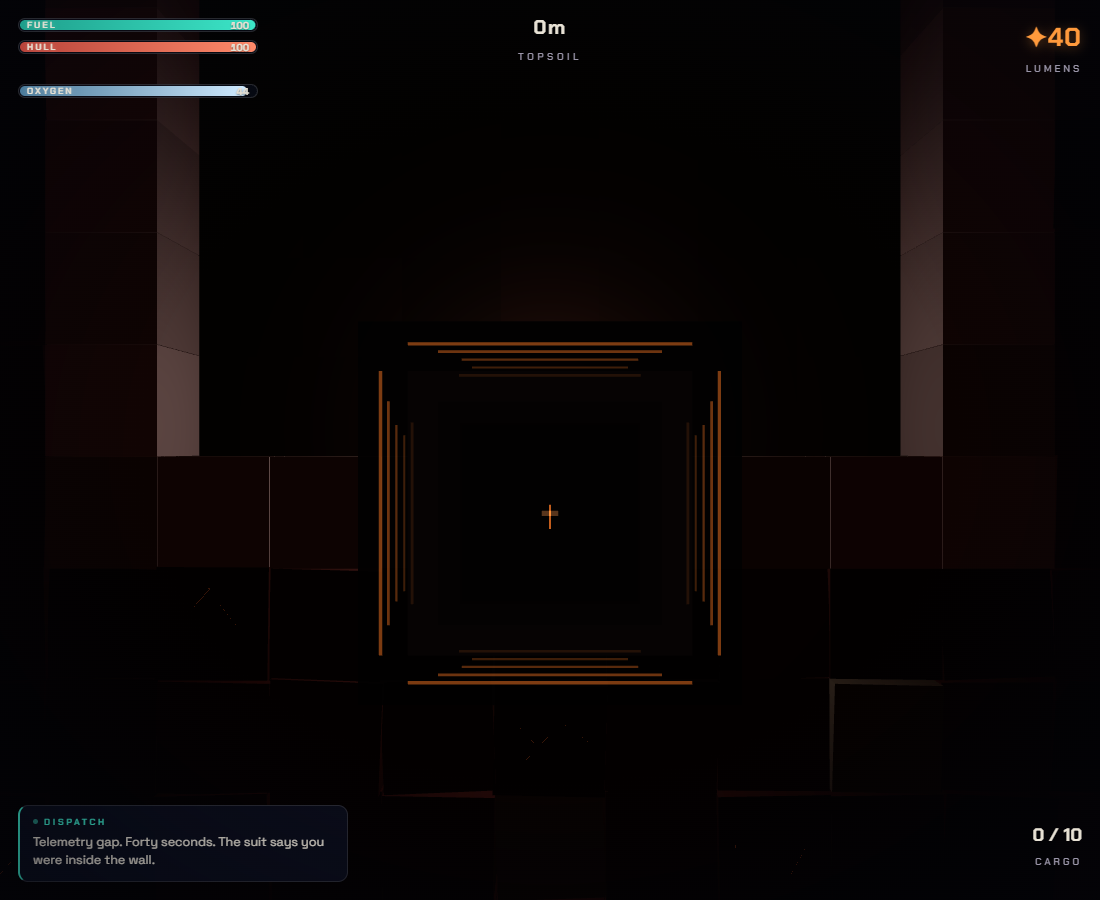
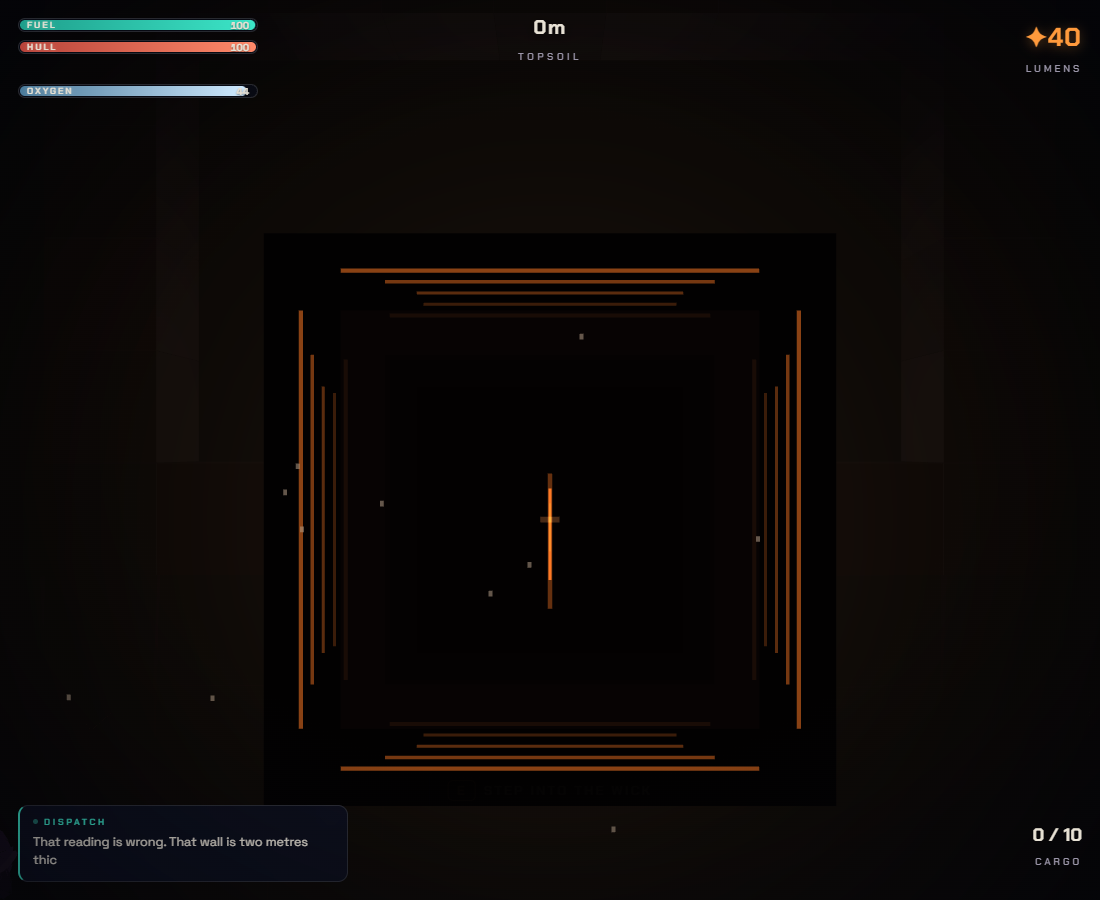
The fold owns the frame, and the door stands inside
Playtest verdict on the first fold: right idea, too small. Now the
world irises down to a warm pool around the stone, a flare ring breaks
off the mark, the coffers fill the screen shedding stone dust as they
recede, and the word STREAMS down its own throat in three flowing
echoes — the transit flash's register, spent on a doorway.

And the inside finally answers the outside: the vault's entry is the
same throat seen from the other side, arriving OPEN and closing to a
dim standing doorframe behind you over two pulses, then brightening as
the body comes back near — the way out, promised the whole run. The
completion card's engraved lines are block-level now, so a sentence
that wraps no longer shreds against its own clip.

diff --git a/src/fx/fold.ts b/src/fx/fold.ts
@@ -1,135 +1,211 @@
 import * as THREE from 'three';
 import { GlyphDef } from '../world/glyphs';
+import { softDisc } from '../game/vaultkit';
 
 // THE FOLD (SPEC-FOLD.md) — the threshold is topology, never teleportation.
 //
-// The stone does not open a door; the word unfolds. Five coffered frames
-// recede into the rock in reading order, the glyph's own strokes stretch
-// inward to become the corridor's seams, and one warm ember waits at the
-// bottom of the throat — the entry sconce, promised before it is met.
+// The stone does not open a door; the word unfolds. The world irises down
+// to a warm pool around the stone, a flare ring breaks off the mark, five
+// coffered frames recede in reading order shedding dust as they go, the
+// glyph's own strokes STREAM inward — the word pulling you through itself
+// — and one ember waits at the bottom of the throat.
 //
-// Everything draws with depth-testing OFF at a high render order: the
-// throat is a picture of depth painted over the dig face, so it can never
-// z-fight the terrain it pretends to tunnel through. Perceived recession
-// is scale + darkening, not actual z — cheaper, and it can never clip.
+// Two builds from one kit:
+//   surface (default) — depth-test OFF at high render order: a picture of
+//     depth painted over the dig face, sized to own the frame with the
+//     dolly. Ephemeral: built at E, disposed on the cut.
+//   interior — depth-test ON, tucked behind the play plane at the vault's
+//     entry: the same throat seen from the other side. It arrives OPEN,
+//     closes to a dim standing doorframe behind you, and brightens again
+//     as the body comes near — the way out, promised the whole run.
 
 export interface FoldThroat {
   group: THREE.Group;
-  /** k in 0..1 — 0 sealed stone, 1 fully unfolded throat */
-  update(k: number): void;
+  /** k 0..1 (sealed → fully unfolded); time drives the streaming strokes */
+  update(k: number, time?: number): void;
   dispose(): void;
 }
 
 const FRAMES = 5;
 
-/** stone settles, light snaps: the one easing the fold's stagger uses */
 const settle = (t: number): number => {
   const p = Math.max(0, Math.min(1, t));
   return 1 - Math.pow(1 - p, 3);
 };
 
-export function buildFoldThroat(g: GlyphDef, hue: number): FoldThroat {
+export function buildFoldThroat(g: GlyphDef, hue: number, interior = false): FoldThroat {
   const group = new THREE.Group();
   const mats: THREE.Material[] = [];
   const geos: THREE.BufferGeometry[] = [];
   const mk = <T extends THREE.Material>(m: T): T => { mats.push(m); return m; };
   const gm = <T extends THREE.BufferGeometry>(x: T): T => { geos.push(x); return x; };
+  const depthTest = interior;
+  const ro = interior ? 0 : 40;
+  const zi = (n: number): number => interior ? -n * 0.012 : 0.001 * n;
+  const SIZE = interior ? 2.6 : 4.4;
 
-  // the black behind the world: the fold's first act is to unmake the wall
+  // the iris: the world falls away to a warm pool around the stone —
+  // surface only; inside a vault the dark is already everywhere
+  let irisMat: THREE.MeshBasicMaterial | null = null;
+  let haloMat: THREE.MeshBasicMaterial | null = null;
+  if (!interior) {
+    irisMat = mk(new THREE.MeshBasicMaterial({
+      color: 0x020104, transparent: true, opacity: 0, depthTest: false, depthWrite: false,
+    }));
+    const iris = new THREE.Mesh(gm(new THREE.PlaneGeometry(90, 60)), irisMat);
+    iris.renderOrder = ro - 2;
+    group.add(iris);
+    haloMat = mk(new THREE.MeshBasicMaterial({
+      map: softDisc(), color: 0x3a2c20, transparent: true, opacity: 0,
+      blending: THREE.AdditiveBlending, depthTest: false, depthWrite: false, toneMapped: false,
+    }));
+    const halo = new THREE.Mesh(gm(new THREE.PlaneGeometry(14, 14)), haloMat);
+    halo.renderOrder = ro - 1;
+    group.add(halo);
+  }
+
+  // the black behind the world
   const backMat = mk(new THREE.MeshBasicMaterial({
-    color: 0x050308, transparent: true, opacity: 0, depthTest: false, depthWrite: false,
+    color: 0x050308, transparent: true, opacity: 0, depthTest, depthWrite: false,
   }));
-  const back = new THREE.Mesh(gm(new THREE.PlaneGeometry(3.4, 3.4)), backMat);
-  back.renderOrder = 40;
+  const back = new THREE.Mesh(gm(new THREE.PlaneGeometry(SIZE * 1.15, SIZE * 1.15)), backMat);
+  back.renderOrder = ro;
+  back.position.z = zi(0);
   group.add(back);
 
-  // the coffered frames, largest first — each a dark square with a rim of
-  // the world's own note along its edges
+  // the flare ring: the moment the point of light takes, a breath breaks
+  // off the mark and runs outward
+  const ringMat = mk(new THREE.MeshBasicMaterial({
+    color: hue, transparent: true, opacity: 0,
+    blending: THREE.AdditiveBlending, depthTest, depthWrite: false, toneMapped: false,
+    side: THREE.DoubleSide,
+  }));
+  const ring = new THREE.Mesh(gm(new THREE.RingGeometry(0.94, 1, 40)), ringMat);
+  ring.renderOrder = ro + 8;
+  ring.position.z = zi(-1);
+  group.add(ring);
+
+  // the coffered frames, largest first — dark squares rimmed in the note
   const frames: {
     fill: THREE.Mesh; fillMat: THREE.MeshBasicMaterial;
     edges: THREE.Mesh[]; edgeMat: THREE.MeshBasicMaterial;
-    size: number;
   }[] = [];
   for (let i = 0; i < FRAMES; i++) {
-    const size = 3.0 - i * 0.14;
+    const size = SIZE - i * SIZE * 0.045;
     const shade = 0x16100f - i * 0x040302;
     const fillMat = mk(new THREE.MeshBasicMaterial({
       color: Math.max(0x020103, shade), transparent: true, opacity: 0,
-      depthTest: false, depthWrite: false,
+      depthTest, depthWrite: false,
     }));
     const fill = new THREE.Mesh(gm(new THREE.PlaneGeometry(size, size)), fillMat);
-    fill.renderOrder = 41 + i;
+    fill.renderOrder = ro + 1 + i;
+    fill.position.z = zi(i + 1);
     group.add(fill);
     const edgeMat = mk(new THREE.MeshBasicMaterial({
       color: hue, transparent: true, opacity: 0,
-      blending: THREE.AdditiveBlending, depthTest: false, depthWrite: false, toneMapped: false,
+      blending: THREE.AdditiveBlending, depthTest, depthWrite: false, toneMapped: false,
     }));
     const edges: THREE.Mesh[] = [];
     for (const [ex, ey, w, h] of [
-      [0, size / 2, size, 0.035], [0, -size / 2, size, 0.035],
-      [-size / 2, 0, 0.035, size], [size / 2, 0, 0.035, size],
+      [0, size / 2, size, 0.045], [0, -size / 2, size, 0.045],
+      [-size / 2, 0, 0.045, size], [size / 2, 0, 0.045, size],
     ] as const) {
       const e = new THREE.Mesh(gm(new THREE.PlaneGeometry(w, h)), edgeMat);
-      e.position.set(ex, ey, 0.001 * (i + 1));
-      e.renderOrder = 41 + i;
+      e.position.set(ex, ey, zi(i + 1) + (interior ? 0 : 0.0005));
+      e.renderOrder = ro + 1 + i;
       edges.push(e);
       group.add(e);
     }
-    frames.push({ fill, fillMat, edges, edgeMat, size });
+    frames.push({ fill, fillMat, edges, edgeMat });
   }
 
-  // the strokes, extruded: the mark's own segments as seams running down
-  // the throat — the word literally becoming the room's lattice
-  const s = 0.66 / 4;
-  const strokeMat = mk(new THREE.MeshBasicMaterial({
-    color: hue, transparent: true, opacity: 0,
-    blending: THREE.AdditiveBlending, depthTest: false, depthWrite: false, toneMapped: false,
+  // the dust the courses shed as they go — stone giving way, told small
+  const dustMat = mk(new THREE.MeshBasicMaterial({
+    color: 0xa9917a, transparent: true, opacity: 0, depthTest, depthWrite: false,
   }));
-  const strokeGroup = new THREE.Group();
-  for (const stroke of g.strokes) {
-    for (let i = 1; i < stroke.length; i++) {
-      const ax = (stroke[i - 1][0] - 2) * s, ay = (stroke[i - 1][1] - 2) * s;
-      const bx = (stroke[i][0] - 2) * s, by = (stroke[i][1] - 2) * s;
-      const horiz = Math.abs(bx - ax) > Math.abs(by - ay);
-      const len = Math.hypot(bx - ax, by - ay) + 0.05;
-      const seg = new THREE.Mesh(
-        gm(new THREE.PlaneGeometry(horiz ? len : 0.045, horiz ? 0.045 : len)), strokeMat);
-      seg.position.set((ax + bx) / 2, (ay + by) / 2, 0.01);
-      seg.renderOrder = 47;
-      strokeGroup.add(seg);
-    }
+  const dust: { mesh: THREE.Mesh; x: number; y0: number; v: number; ph: number }[] = [];
+  for (let i = 0; i < 14; i++) {
+    const d = new THREE.Mesh(gm(new THREE.PlaneGeometry(0.035, 0.05)), dustMat);
+    const x = (Math.sin(i * 12.9898) * 43758.5453 % 1) * SIZE - SIZE / 2;
+    const y0 = ((Math.sin(i * 78.233) * 12543.2 % 1) * 0.5 + 0.45) * SIZE / 2;
+    d.position.set(x, y0, zi(-1));
+    d.renderOrder = ro + 7;
+    dust.push({ mesh: d, x, y0, v: 0.8 + (i % 5) * 0.3, ph: i * 0.7 });
+    group.add(d);
   }
-  group.add(strokeGroup);
+
+  // the strokes, STREAMING: three echoes of the word flowing down the
+  // throat — the word pulling you through itself
+  const s = (SIZE * 0.42) / 4;
+  const streamMats: THREE.MeshBasicMaterial[] = [];
+  const streams: THREE.Group[] = [];
+  for (let rep = 0; rep < 3; rep++) {
+    const sm = mk(new THREE.MeshBasicMaterial({
+      color: hue, transparent: true, opacity: 0,
+      blending: THREE.AdditiveBlending, depthTest, depthWrite: false, toneMapped: false,
+    }));
+    streamMats.push(sm);
+    const sg = new THREE.Group();
+    for (const stroke of g.strokes) {
+      for (let i = 1; i < stroke.length; i++) {
+        const ax = (stroke[i - 1][0] - 2) * s, ay = (stroke[i - 1][1] - 2) * s;
+        const bx = (stroke[i][0] - 2) * s, by = (stroke[i][1] - 2) * s;
+        const horiz = Math.abs(bx - ax) > Math.abs(by - ay);
+        const len = Math.hypot(bx - ax, by - ay) + 0.06;
+        const seg = new THREE.Mesh(
+          gm(new THREE.PlaneGeometry(horiz ? len : 0.05, horiz ? 0.05 : len)), sm);
+        seg.position.set((ax + bx) / 2, (ay + by) / 2, zi(-2));
+        seg.renderOrder = ro + 7;
+        sg.add(seg);
+      }
+    }
+    group.add(sg);
+    streams.push(sg);
+  }
 
   // the ember at the bottom of the throat: the entry sconce, promised
   const emberMat = mk(new THREE.MeshBasicMaterial({
     color: 0xff9a50, transparent: true, opacity: 0,
-    blending: THREE.AdditiveBlending, depthTest: false, depthWrite: false, toneMapped: false,
+    blending: THREE.AdditiveBlending, depthTest, depthWrite: false, toneMapped: false,
   }));
-  const ember = new THREE.Mesh(gm(new THREE.PlaneGeometry(0.16, 0.05)), emberMat);
-  ember.position.z = 0.02;
-  ember.renderOrder = 48;
+  const ember = new THREE.Mesh(gm(new THREE.PlaneGeometry(0.2, 0.06)), emberMat);
+  ember.position.z = zi(-3);
+  ember.renderOrder = ro + 8;
   group.add(ember);
 
-  const update = (k: number): void => {
+  const update = (k: number, time = 0): void => {
     const kk = Math.max(0, Math.min(1, k));
-    backMat.opacity = Math.min(1, kk * 4) * 0.96;
+    if (irisMat) irisMat.opacity = settle(kk * 1.6) * 0.9;
+    if (haloMat) haloMat.opacity = settle(kk * 1.6) * 0.5;
+    backMat.opacity = Math.min(1, kk * 4) * 0.97;
+    // the flare: born in the first sixth, gone by the third
+    const fl = kk / 0.32;
+    ringMat.opacity = fl < 1 ? Math.sin(Math.min(1, fl) * Math.PI) * 0.7 : 0;
+    ring.scale.setScalar(0.2 + settle(fl) * (interior ? 1.6 : 3.2));
     for (let i = 0; i < FRAMES; i++) {
-      // reading order: the shallow course moves first, the deep one last
       const fi = settle(kk * (FRAMES + 1) / FRAMES - i / FRAMES);
       const f = frames[i];
-      const sc = 1 - fi * (0.16 + i * 0.15);       // deeper courses shrink further
+      const sc = 1 - fi * (0.16 + i * 0.155);
       f.fill.scale.setScalar(sc);
       for (const e of f.edges) e.scale.setScalar(sc);
-      f.fillMat.opacity = fi * 0.98;
-      f.edgeMat.opacity = fi * (0.5 - i * 0.06);
+      f.fillMat.opacity = fi * 0.985;
+      f.edgeMat.opacity = fi * (0.55 - i * 0.07);
     }
-    // the word stretches inward through the second half
-    const sk = settle((kk - 0.35) / 0.65);
-    strokeGroup.scale.setScalar(1 - sk * 0.62);
-    strokeMat.opacity = sk * 0.8;
-    emberMat.opacity = Math.max(0, (kk - 0.7) / 0.3) * 0.9;
-    ember.scale.setScalar(0.5 + kk * 0.5);
+    dustMat.opacity = kk > 0.05 && kk < 0.9 ? 0.55 : Math.max(0, dustMat.opacity - 0.05);
+    for (const d of dust) {
+      const fall = ((time * d.v + d.ph) % 1.4);
+      d.mesh.position.y = d.y0 - fall * SIZE * 0.55;
+      d.mesh.position.x = d.x + Math.sin(time * 3 + d.ph) * 0.03;
+    }
+    // the word streams inward through the middle of the sequence
+    const sk = settle((kk - 0.25) / 0.75);
+    for (let rep = 0; rep < 3; rep++) {
+      const flow = (time * 0.5 + rep / 3) % 1;
+      streams[rep].scale.setScalar(Math.max(0.06, 1 - flow * 0.8));
+      streamMats[rep].opacity = sk * 0.65 * Math.sin(flow * Math.PI);
+    }
+    emberMat.opacity = Math.max(0, (kk - 0.65) / 0.35) * 0.95;
+    ember.scale.setScalar(0.5 + kk * 0.5 + Math.sin(time * 6) * 0.06 * kk);
   };
   update(0);
 

diff --git a/src/game/vault.ts b/src/game/vault.ts
@@ -1,6 +1,7 @@
 import * as THREE from 'three';
 import { FollowCam } from '../fx/camera';
 import { GlyphDef, buildGlyphMark, glyphSvg } from '../world/glyphs';
+import { buildFoldThroat, FoldThroat } from '../fx/fold';
 import { VaultDef, GateDef, CurrentDef, ParsedVault, parseVault, chamberAt, PULSE, HALF } from '../world/vaults';
 import {
   Suit, SUIT_R, SUIT_H, buildSuit, poseSuit,
@@ -352,6 +353,9 @@ export class VaultRun {
   private slabAnchors = new Set<number>();
   /** the sanctum's poured light — driven by DISTANCE on the approach */
   private sanctumGlow: THREE.MeshBasicMaterial[] = [];
+  /** the interior threshold at the entry — open on arrival, then a door */
+  private door!: FoldThroat;
+  private doorT = 0;
   /** a snuffer's whole moth, indexed like shuttles; null for a plain bolt */
   private snufferParts: (MothParts | null)[] = [];
   /** last frame's place, so the moth can turn into where it is going */
@@ -1172,11 +1176,14 @@ export class VaultRun {
     this.masterGroup.position.set(this.p.master.x + 0.5, -(this.p.master.y + 0.5), 0);
     this.scene.add(this.masterGroup);
 
-    // entry frame
-    const frame = new THREE.Mesh(new THREE.BoxGeometry(1.1, 1.7, 0.15),
-      new THREE.MeshBasicMaterial({ color: this.hue, transparent: true, opacity: 0.22 }));
-    frame.position.set(this.p.entry.x + 0.5, -(this.p.entry.y + 0.5), -0.3);
-    this.scene.add(frame);
+    // THE DOOR (SPEC-FOLD.md beat 5): the throat you came through, seen
+    // from the other side. It arrives OPEN and closes to a dim standing
+    // doorframe behind you over the first two pulses — then waits, and
+    // brightens as the body comes back near: the way out, promised.
+    this.door = buildFoldThroat(this.glyph, this.rimHue, true);
+    this.door.group.position.set(this.p.entry.x + 0.5, -(this.p.entry.y + 0.5), -0.42);
+    this.door.update(1);
+    this.scene.add(this.door.group);
 
     // motes falling the way each zone says down
     const N = 420;
@@ -2758,6 +2765,15 @@ export class VaultRun {
       if (x > f.x1) x = f.x0;
       f.mesh.position.x = x;
     }
+    // the arrival closes behind you; the door brightens as you return
+    this.doorT = Math.min(1, this.doorT + dt / (2 * PULSE));
+    {
+      const e = this.p.entry;
+      const dnear = Math.max(0, 1 - Math.hypot(this.px - (e.x + 0.5), this.py + e.y + 0.5) / 3);
+      const rest = 0.16 + dnear * 0.3;
+      this.door.update((1 - this.doorT) * (1 - rest) + rest, this.time);
+    }
+
     // THE MASTER APPROACH (SPEC-FOLD.md beat 7): the last eight tiles are
     // distance-driven — the sanctum's poured light swells as the body
     // closes and recedes if it backs away. The finale's law, in miniature.

diff --git a/src/main.ts b/src/main.ts
@@ -544,7 +544,7 @@ class Game {
     const p = Math.max(0, Math.min(1, f.t / f.dur));
     // stone settles: heavy ease-out, the guild's own curve
     const k = 1 - Math.pow(1 - p, 3);
-    f.throat.update(f.kind === 'out' ? 1 - k : k);
+    f.throat.update(f.kind === 'out' ? 1 - k : k, this.time);
     if (!this.reducedMotion) {
       // the only dolly in the game: drawn through the face, or set back down
       const toward = f.kind === 'out' ? 1 - k : k;

diff --git a/src/style.css b/src/style.css
@@ -1058,6 +1058,8 @@ body.sm-open #survey {
 /* THE FOLD (SPEC-FOLD.md) -- the translation's engraved lines, one per
    pulse; any key completes the engraving at once */
 .vc-line {
+  /* block-level, or clip-path shreds a sentence that wraps mid-line */
+  display: block;
   opacity: 0;
   animation: vc-engrave 0.85s steps(6, end) forwards;
 }
